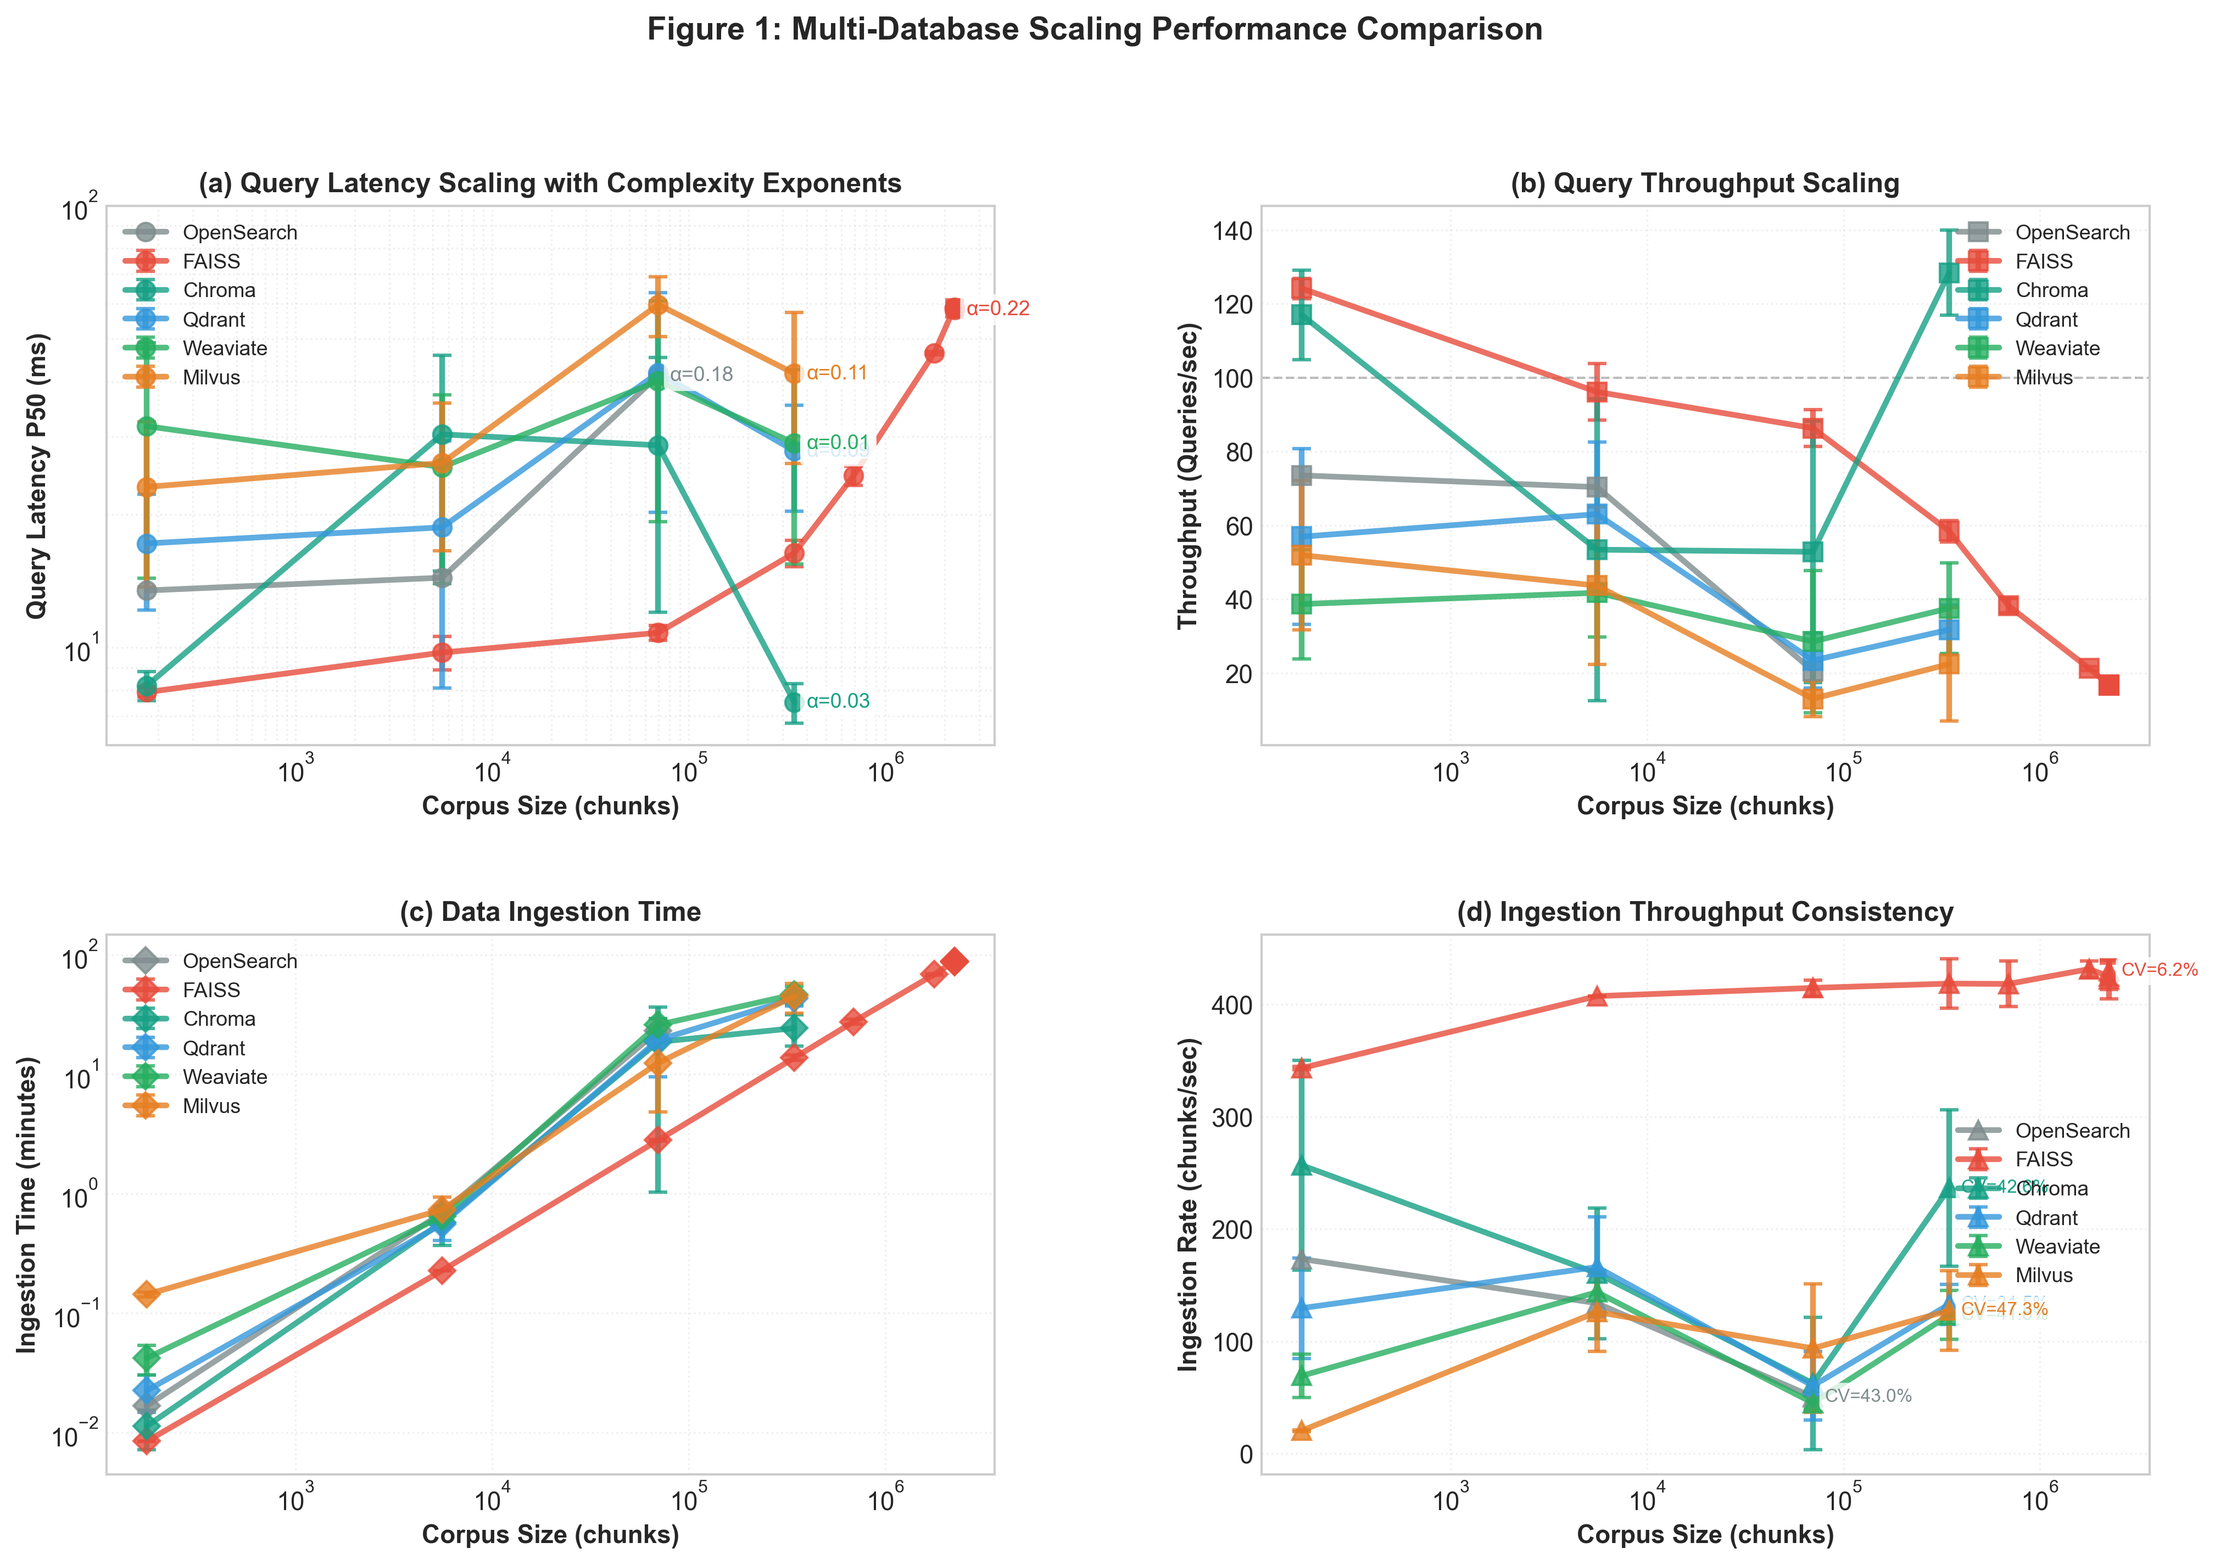
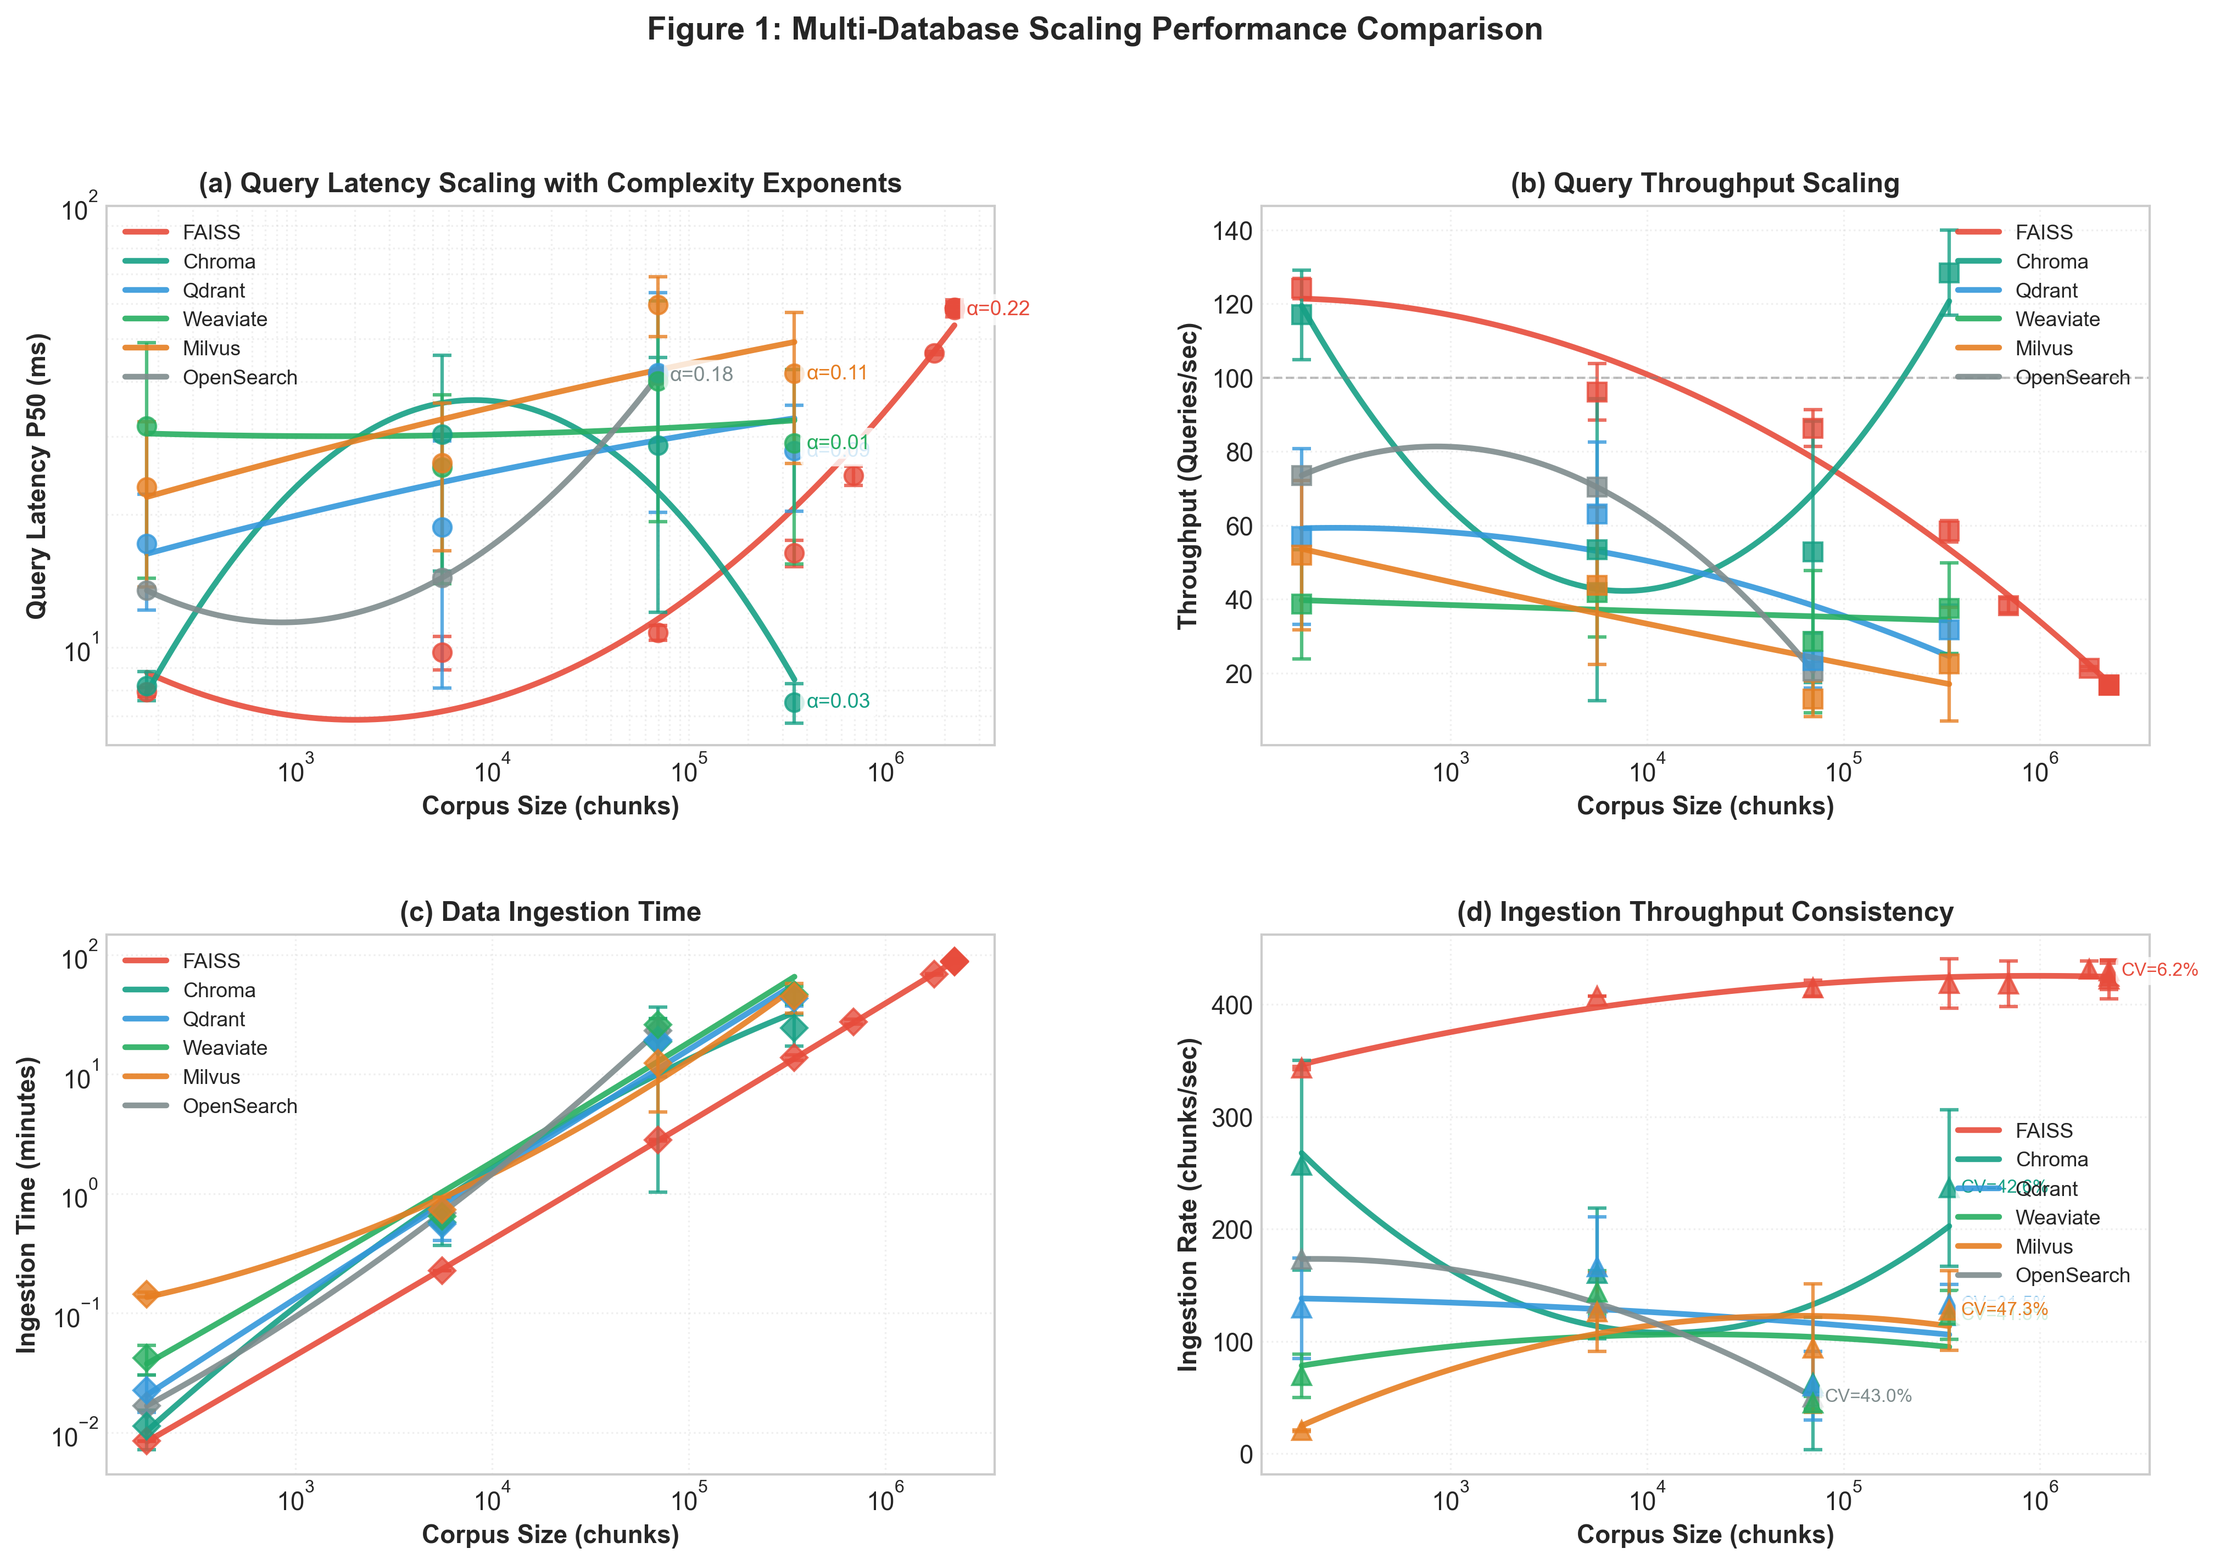
Add polynomial trend lines to 4-panel performance figure
Updated all 4 panels to use polynomial trend lines instead of direct point-to-point connections:
- Panel 1 (Query Latency): 2nd-degree polynomial in log-log space, preserves power-law exponents
- Panel 2 (Throughput): 2nd-degree polynomial in semi-log space
- Panel 3 (Ingestion Time): 2nd-degree polynomial in log-log space
- Panel 4 (Ingestion Throughput): 2nd-degree polynomial in semi-log space, preserves CV annotations

Trend lines are fitted in log-space for better behavior across large corpus size ranges.
Data points plotted separately with error bars where available.

🤖 Generated with [Claude Code](https://claude.com/claude-code)

diff --git a/Scripts/plot_multi_database_scaling.py b/Scripts/plot_multi_database_scaling.py
@@ -389,7 +389,7 @@ def plot_combined_dashboard(all_data, output_dir):
     ax3 = fig.add_subplot(gs[1, 0])
     ax4 = fig.add_subplot(gs[1, 1])
 
-    # Panel 1: Query Latency (log-log with power-law exponents)
+    # Panel 1: Query Latency (log-log with power-law exponents and trend lines)
     for db_name, metrics in all_data.items():
         if metrics and metrics['latencies'] and any(l is not None for l in metrics['latencies']):
             valid_indices = [i for i, l in enumerate(metrics['latencies']) if l is not None]
@@ -397,31 +397,51 @@ def plot_combined_dashboard(all_data, output_dir):
             latencies = [metrics['latencies'][i] for i in valid_indices]
             latencies_std = [metrics['latencies_std'][i] for i in valid_indices] if metrics.get('has_error_bars') else None
 
-            # Plot line with error bars if available
+            color = DB_COLORS.get(db_name, '#000000')
+
+            # Plot data points with error bars (no connecting lines)
             if latencies_std and any(s > 0 for s in latencies_std):
                 ax1.errorbar(chunks, latencies, yerr=latencies_std,
-                           marker='o', linewidth=2.5, markersize=8,
-                           color=DB_COLORS.get(db_name, '#000000'),
-                           label=DB_LABELS.get(db_name, db_name),
-                           alpha=0.8, capsize=4, capthick=1.5)
+                           fmt='o', markersize=8,
+                           color=color,
+                           alpha=0.8, capsize=4, capthick=1.5,
+                           linestyle='none', label='_nolegend_')
             else:
                 ax1.plot(chunks, latencies,
-                        marker='o', linewidth=2.5, markersize=8,
-                        color=DB_COLORS.get(db_name, '#000000'),
-                        label=DB_LABELS.get(db_name, db_name),
-                        alpha=0.8)
+                        marker='o', markersize=8,
+                        color=color,
+                        linestyle='none',
+                        alpha=0.8, label='_nolegend_')
 
-            # Add power-law exponent annotation
+            # Fit and plot polynomial trend line
             if len(chunks) >= 3:
                 log_chunks = np.log10(chunks)
                 log_latencies = np.log10(latencies)
-                coeffs = np.polyfit(log_chunks, log_latencies, 1)
-                alpha = coeffs[0]
 
-                # Position annotation at the end of the line
+                # Linear fit for power-law exponent
+                coeffs_linear = np.polyfit(log_chunks, log_latencies, 1)
+                alpha_exp = coeffs_linear[0]
+
+                # Polynomial fit for smooth curve (degree 2 in log space)
+                degree = min(2, len(chunks) - 1)
+                coeffs = np.polyfit(log_chunks, log_latencies, degree)
+                poly = np.poly1d(coeffs)
+
+                # Generate smooth curve
+                log_chunks_smooth = np.linspace(min(log_chunks), max(log_chunks), 100)
+                chunks_smooth = 10 ** log_chunks_smooth
+                latencies_smooth = 10 ** poly(log_chunks_smooth)
+
+                # Plot trend line
+                ax1.plot(chunks_smooth, latencies_smooth,
+                        linewidth=2.5, color=color,
+                        label=DB_LABELS.get(db_name, db_name),
+                        alpha=0.9)
+
+                # Add power-law exponent annotation
                 ax1.text(chunks[-1] * 1.15, latencies[-1],
-                        f'α={alpha:.2f}',
-                        fontsize=9, color=DB_COLORS.get(db_name, '#000000'),
+                        f'α={alpha_exp:.2f}',
+                        fontsize=9, color=color,
                         verticalalignment='center',
                         bbox=dict(boxstyle='round,pad=0.3', facecolor='white', alpha=0.8, edgecolor='none'))
 
@@ -449,7 +469,7 @@ def plot_combined_dashboard(all_data, output_dir):
     ax1.set_ylim(top=100)
     ax1.autoscale(enable=True, axis='x', tight=False)
 
-    # Panel 2: Throughput (QPS)
+    # Panel 2: Throughput (QPS) with polynomial trend lines
     for db_name, metrics in all_data.items():
         if metrics and metrics['throughputs'] and any(t is not None for t in metrics['throughputs']):
             valid_indices = [i for i, t in enumerate(metrics['throughputs']) if t is not None]
@@ -457,19 +477,39 @@ def plot_combined_dashboard(all_data, output_dir):
             throughputs = [metrics['throughputs'][i] for i in valid_indices]
             throughputs_std = [metrics['throughputs_std'][i] for i in valid_indices] if metrics.get('has_error_bars') else None
 
-            # Plot line with error bars if available
+            color = DB_COLORS.get(db_name, '#000000')
+
+            # Plot data points with error bars (no connecting lines)
             if throughputs_std and any(s > 0 for s in throughputs_std):
                 ax2.errorbar(chunks, throughputs, yerr=throughputs_std,
-                           marker='s', linewidth=2.5, markersize=8,
-                           color=DB_COLORS.get(db_name, '#000000'),
-                           label=DB_LABELS.get(db_name, db_name),
-                           alpha=0.8, capsize=4, capthick=1.5)
+                           fmt='s', markersize=8,
+                           color=color,
+                           alpha=0.8, capsize=4, capthick=1.5,
+                           linestyle='none', label='_nolegend_')
             else:
                 ax2.plot(chunks, throughputs,
-                        marker='s', linewidth=2.5, markersize=8,
-                        color=DB_COLORS.get(db_name, '#000000'),
+                        marker='s', markersize=8,
+                        color=color,
+                        linestyle='none',
+                        alpha=0.8, label='_nolegend_')
+
+            # Fit and plot polynomial trend line
+            if len(chunks) >= 3:
+                log_chunks = np.log10(chunks)
+                degree = min(2, len(chunks) - 1)
+                coeffs = np.polyfit(log_chunks, throughputs, degree)
+                poly = np.poly1d(coeffs)
+
+                # Generate smooth curve
+                log_chunks_smooth = np.linspace(min(log_chunks), max(log_chunks), 100)
+                chunks_smooth = 10 ** log_chunks_smooth
+                throughputs_smooth = poly(log_chunks_smooth)
+
+                # Plot trend line
+                ax2.plot(chunks_smooth, throughputs_smooth,
+                        linewidth=2.5, color=color,
                         label=DB_LABELS.get(db_name, db_name),
-                        alpha=0.8)
+                        alpha=0.9)
 
     ax2.set_xlabel('Corpus Size (chunks)', fontweight='bold', fontsize=11)
     ax2.set_ylabel('Throughput (Queries/sec)', fontweight='bold', fontsize=11)
@@ -479,26 +519,47 @@ def plot_combined_dashboard(all_data, output_dir):
     ax2.set_xscale('log')
     ax2.axhline(y=100, color='gray', linestyle='--', linewidth=1, alpha=0.5, label='100 QPS threshold')
 
-    # Panel 3: Ingestion Time
+    # Panel 3: Ingestion Time with polynomial trend lines
     for db_name, metrics in all_data.items():
         if metrics and metrics['ingestion_times']:
             chunks = metrics['chunks']
             times = [t / 60 for t in metrics['ingestion_times']]
             times_std = [t / 60 for t in metrics['ingestion_times_std']] if metrics.get('has_error_bars') else None
 
-            # Plot line with error bars if available
+            color = DB_COLORS.get(db_name, '#000000')
+
+            # Plot data points with error bars (no connecting lines)
             if times_std and any(s > 0 for s in times_std):
                 ax3.errorbar(chunks, times, yerr=times_std,
-                           marker='D', linewidth=2.5, markersize=8,
-                           color=DB_COLORS.get(db_name, '#000000'),
-                           label=DB_LABELS.get(db_name, db_name),
-                           alpha=0.8, capsize=4, capthick=1.5)
+                           fmt='D', markersize=8,
+                           color=color,
+                           alpha=0.8, capsize=4, capthick=1.5,
+                           linestyle='none', label='_nolegend_')
             else:
                 ax3.plot(chunks, times,
-                        marker='D', linewidth=2.5, markersize=8,
-                        color=DB_COLORS.get(db_name, '#000000'),
+                        marker='D', markersize=8,
+                        color=color,
+                        linestyle='none',
+                        alpha=0.8, label='_nolegend_')
+
+            # Fit and plot polynomial trend line (log-log space)
+            if len(chunks) >= 3:
+                log_chunks = np.log10(chunks)
+                log_times = np.log10(times)
+                degree = min(2, len(chunks) - 1)
+                coeffs = np.polyfit(log_chunks, log_times, degree)
+                poly = np.poly1d(coeffs)
+
+                # Generate smooth curve
+                log_chunks_smooth = np.linspace(min(log_chunks), max(log_chunks), 100)
+                chunks_smooth = 10 ** log_chunks_smooth
+                times_smooth = 10 ** poly(log_chunks_smooth)
+
+                # Plot trend line
+                ax3.plot(chunks_smooth, times_smooth,
+                        linewidth=2.5, color=color,
                         label=DB_LABELS.get(db_name, db_name),
-                        alpha=0.8)
+                        alpha=0.9)
 
     ax3.set_xlabel('Corpus Size (chunks)', fontweight='bold', fontsize=11)
     ax3.set_ylabel('Ingestion Time (minutes)', fontweight='bold', fontsize=11)
@@ -508,7 +569,7 @@ def plot_combined_dashboard(all_data, output_dir):
     ax3.set_xscale('log')
     ax3.set_yscale('log')
 
-    # Panel 4: Ingestion Throughput Consistency
+    # Panel 4: Ingestion Throughput Consistency with polynomial trend lines
     for db_name, metrics in all_data.items():
         if metrics and metrics['ingestion_times']:
             chunks = metrics['chunks']
@@ -522,19 +583,39 @@ def plot_combined_dashboard(all_data, output_dir):
                     for c, t, t_std in zip(chunks, metrics['ingestion_times'], metrics['ingestion_times_std'])
                 ]
 
-            # Plot line with error bars if available
+            color = DB_COLORS.get(db_name, '#000000')
+
+            # Plot data points with error bars (no connecting lines)
             if throughputs_std and any(s > 0 for s in throughputs_std):
                 ax4.errorbar(chunks, throughputs, yerr=throughputs_std,
-                           marker='^', linewidth=2.5, markersize=8,
-                           color=DB_COLORS.get(db_name, '#000000'),
-                           label=DB_LABELS.get(db_name, db_name),
-                           alpha=0.8, capsize=4, capthick=1.5)
+                           fmt='^', markersize=8,
+                           color=color,
+                           alpha=0.8, capsize=4, capthick=1.5,
+                           linestyle='none', label='_nolegend_')
             else:
                 ax4.plot(chunks, throughputs,
-                        marker='^', linewidth=2.5, markersize=8,
-                        color=DB_COLORS.get(db_name, '#000000'),
+                        marker='^', markersize=8,
+                        color=color,
+                        linestyle='none',
+                        alpha=0.8, label='_nolegend_')
+
+            # Fit and plot polynomial trend line
+            if len(chunks) >= 3:
+                log_chunks = np.log10(chunks)
+                degree = min(2, len(chunks) - 1)
+                coeffs = np.polyfit(log_chunks, throughputs, degree)
+                poly = np.poly1d(coeffs)
+
+                # Generate smooth curve
+                log_chunks_smooth = np.linspace(min(log_chunks), max(log_chunks), 100)
+                chunks_smooth = 10 ** log_chunks_smooth
+                throughputs_smooth = poly(log_chunks_smooth)
+
+                # Plot trend line
+                ax4.plot(chunks_smooth, throughputs_smooth,
+                        linewidth=2.5, color=color,
                         label=DB_LABELS.get(db_name, db_name),
-                        alpha=0.8)
+                        alpha=0.9)
 
             # Calculate and display coefficient of variation
             if len(throughputs) > 1:
@@ -542,7 +623,7 @@ def plot_combined_dashboard(all_data, output_dir):
                 # Annotate at the rightmost point
                 ax4.text(chunks[-1] * 1.15, throughputs[-1],
                         f'CV={cv:.1f}%',
-                        fontsize=8, color=DB_COLORS.get(db_name, '#000000'),
+                        fontsize=8, color=color,
                         verticalalignment='center',
                         bbox=dict(boxstyle='round,pad=0.3', facecolor='white', alpha=0.8, edgecolor='none'))
 
